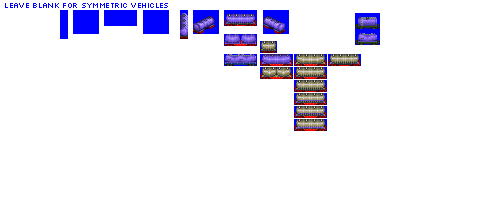
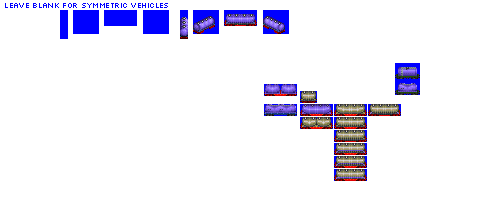
Change: sprites complete for gen 6 silo cars

diff --git a/src/vehicles/silo_cars.py b/src/vehicles/silo_cars.py
@@ -68,7 +68,7 @@ def main():
                              base_numeric_id=3650,
                              gen=6,
                              subtype='A',
-                             sprites_complete=False)
+                             sprites_complete=True)
 
     consist.add_unit(type=FreightCar,
                      chassis='2_axle_filled_16px')
@@ -78,7 +78,7 @@ def main():
                              base_numeric_id=3660,
                              gen=6,
                              subtype='B',
-                             sprites_complete=False)
+                             sprites_complete=True)
 
     consist.add_unit(type=FreightCar,
                      chassis='4_axle_filled_greebled_24px')
@@ -88,7 +88,7 @@ def main():
                              base_numeric_id=3670,
                              gen=6,
                              subtype='C',
-                             sprites_complete=False)
+                             sprites_complete=True)
 
     consist.add_unit(type=FreightCar,
                      chassis='4_axle_filled_greebled_32px')
